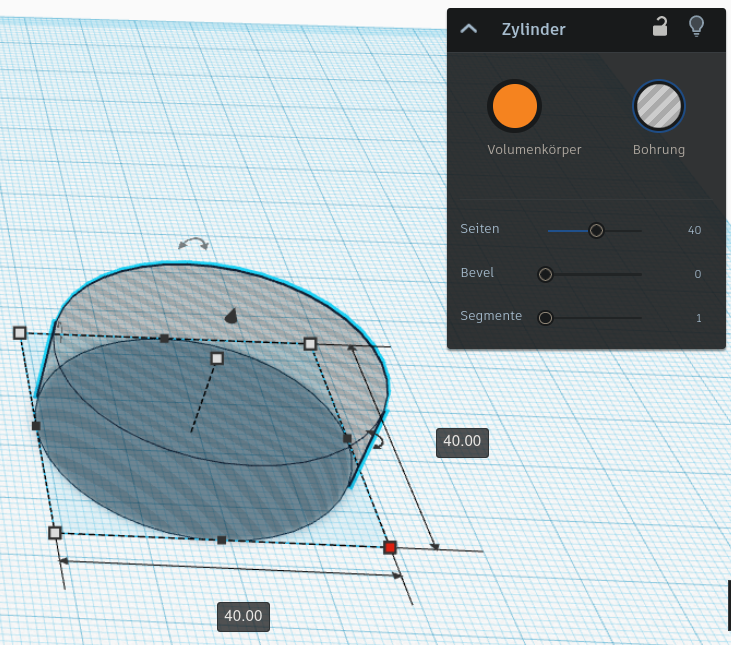
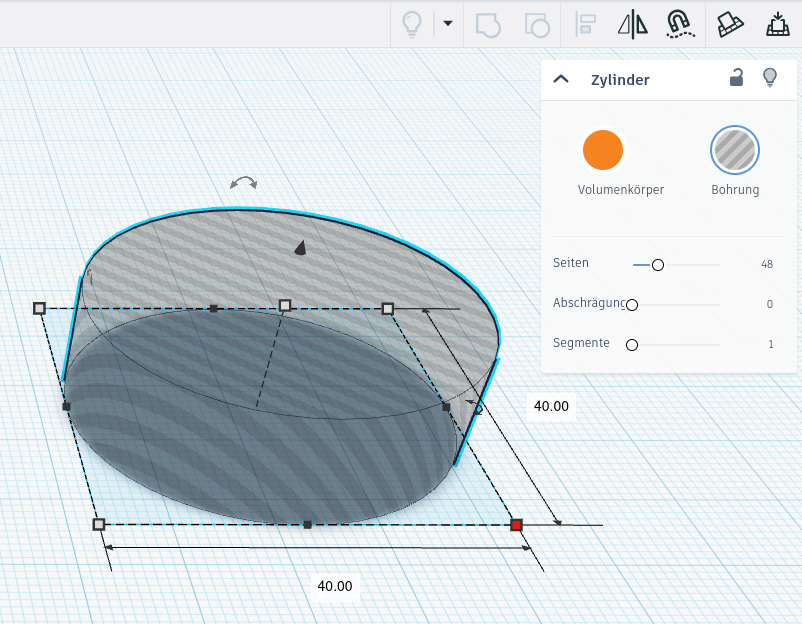
Improve project 01 Teelichthalter
- enable automatic image conversion to webp
- new shortcode for tooltips
- improve project "01 Teelichthalter"

diff --git a/assets/_custom.scss b/assets/_custom.scss
@@ -7,3 +7,50 @@ img {
     margin-left: auto;
     margin-right: auto;
 }
+
+/* Tooltip container */
+.tooltip {
+  position: relative;
+  display: inline-block;
+  border-bottom: 1px dotted black; /* If you want dots under the hoverable text */
+}
+
+/* Tooltip text */
+.tooltip .tooltiptext {
+  visibility: hidden;
+  width: 120px;
+  background-color: #555;
+  color: #fff;
+  text-align: center;
+  padding: 5px 0;
+  border-radius: 6px;
+
+  /* Position the tooltip text */
+  position: absolute;
+  z-index: 1;
+  bottom: 125%;
+  left: 50%;
+  margin-left: -60px;
+
+  /* Fade in tooltip */
+  opacity: 0;
+  transition: opacity 0.3s;
+}
+
+/* Tooltip arrow */
+.tooltip .tooltiptext::after {
+  content: "";
+  position: absolute;
+  top: 100%;
+  left: 50%;
+  margin-left: -5px;
+  border-width: 5px;
+  border-style: solid;
+  border-color: #555 transparent transparent transparent;
+}
+
+/* Show the tooltip text when you mouse over the tooltip container */
+.tooltip:hover .tooltiptext {
+  visibility: visible;
+  opacity: 1;
+}

diff --git a/layouts/_shortcodes/tooltip.html b/layouts/_shortcodes/tooltip.html
@@ -1,0 +1,1 @@
+<span class="tooltip">{{ .Get 0 }}<span class="tooltiptext">{{ .Get 1 }}</span></span>

diff --git a/content/projects/01-tea-light-holder/_index.md b/content/projects/01-tea-light-holder/_index.md
@@ -9,7 +9,7 @@ bookToc: false
 
 Heute wollen wir einen weihnachtlich verzierten Halter für ein batteriebetriebenes Teelicht konstruieren. Die meisten Teelichter haben einen Durchmesser von **39 mm**. Es gibt sie in verschiedenen Höhen zu kaufen.
 
-{{< figure src="tinkercad-tea-light-holder.png" width="50%" alt="" >}}
+![](tinkercad-tea-light-holder.png)
 
 {{% hint danger %}}
 **Achtung:** Verwende den Halter nur unter Aufsicht eines Erwachsenen mit einem echten Teelicht!
@@ -21,30 +21,29 @@ Heute wollen wir einen weihnachtlich verzierten Halter für ein batteriebetriebe
 2. Erstelle einen Zylinder mit einem Durchmesser von **40 mm** und einer Höhe von **12 mm**.
 
 3. Setze seinen Zustand auf **„Bohrung“**. Dieser Zylinder ist die Vertiefung für das Teelicht.
+    ![](tinkercad-cylinder.png)
 
-4. Ändere die Anzahl der Seiten auf **40**, damit der Zylinder nicht so eckig ist.
-    ![](tinkercad-cylinder-annotated.png)
+4. Erstelle nun den äußeren Zylinder des Teelichthalters. Der Durchmesser soll genau **42,52 mm** betragen. Bei diesem Durchmesser bleibt später ein äußerer Rand von 1,26 mm um das Teelicht. Diese Wandstärke entspricht bei den meisten 3D-Druckern genau drei parallelen Linien, so dass der Druck nicht so lange dauert.
 
-5. Erstelle nun den äußeren Zylinder des Teelichthalters. Der Durchmesser soll genau **42,52 mm** betragen. Bei diesem Durchmesser bleibt später ein äußerer Rand von 1,26 mm um das Teelicht. Diese Wandstärke entspricht bei den meisten 3D-Druckern genau drei parallelen Linien, so dass der Druck nicht so lange dauert.
+5. Die Höhe des Zylinders ist **12,8 mm**. Dadurch bekommt der Boden des Halters später eine Dicke von 0,8 mm.
 
-6. Die Höhe des Zylinders ist **12,8 mm**. Dadurch bekommt der Boden des Halters später eine Dicke von 0,8 mm.
+6. Markiere nun die beiden Zylinder, indem du mit der Maus einen Rahmen um beide ziehst.
 
-7. Ändere die Anzahl der Seiten wieder auf **40**.
+7. Klicke oben rechts auf **„Ausrichten“**.
+    ![](images/tinkercad-alignment-annotated.png)
 
-8. Markiere nun die beiden Zylinder, indem du mit der Maus einen Rahmen um beide ziehst.
-
-9. Klicke oben rechts auf **„Ausrichten“**.
-    ![](tinkercad-alignment-annotated.png)
-
-10. Klicke auf die **drei** im nächsten Bild markierten schwarzen Kreise. Dadurch zentrierst du die beiden Zylinder und sorgst dafür, dass ein Boden unter der Bohrung entsteht.
+8. Klicke auf die **drei** im nächsten Bild markierten schwarzen Kreise. Dadurch zentrierst du die beiden Zylinder und sorgst dafür, dass ein Boden unter der Bohrung entsteht.
     ![](tinkercad-alignment-markers-annotated.png)
 
-11. Danach kannst du die beiden Zylinder **gruppieren**. Den Knopf dazu findest du ebenfalls oben rechts. Das Ergebnis sollte wie im folgenden Bild aussehen.
-    {{< figure src="tinkercad-tea-light-holder.png" width="50%" alt="" >}}
+9. Danach kannst du die beiden Zylinder vereinigen, indem du oben rechts auf **„Vereinigungsgruppe“** klickst.
+    ![](images/tinkercad-group-annotated.png)
+
+10. Das Ergebnis sollte wie im folgenden Bild aussehen.
+    ![](tinkercad-tea-light-holder.png)
 
     Damit ist die Grundform des Teelichthalters fertig.
 
-13. Du kannst diesen Teelichthalter nun nach Belieben verzieren.
+11. Du kannst diesen Teelichthalter nun nach Belieben verzieren.
 {{% /steps %}}
 
 ## Mögliche Verzierungen

diff --git a/content/_index.md b/content/_index.md
@@ -1,5 +1,4 @@
 ---
-title: 3D-Druck und Konstruktion
 bookToc: false
 ---
 
@@ -7,7 +6,7 @@ bookToc: false
 
 Du bist technisch interessiert und willst Schülern die Freude am 3D-Druck und der Konstruktion eigener Objekte vermitteln? Dann bist Du hier genau richtig!
 
-Seit 2023 betreue ich ein Ganztagsangebot zum Thema „3D-Druck und Konstruktion“ für Oberschüler und Gymnasiasten der 5. und 6. Klasse.
+Seit 2023 betreue ich ein Ganztagsangebot zum Thema „3D-Druck und Konstruktion“ für Oberschüler und Gymnasiasten der 5. und 6.&nbsp;Klasse.
 
 Die wesentlichen Inhalte des Kurses sind:
 - Bedienung eines 3D-Druckers

diff --git a/archetypes/default.md b/archetypes/default.md
@@ -1,5 +1,3 @@
-+++
-title = '{{ replace .File.ContentBaseName "-" " " | title }}'
-date = {{ .Date }}
-draft = true
-+++
+---
+title: {{ replace .File.ContentBaseName "-" " " | title }}
+---

diff --git a/content/projects/_index.md b/content/projects/_index.md
@@ -1,4 +1,5 @@
 ---
 bookFlatSection: true
-title: Projekte
+title: "GTA: Projekte"
+weight: 4
 ---

diff --git a/content/general/_index.md b/content/general/_index.md
@@ -1,0 +1,5 @@
+---
+bookFlatSection: true
+title: Allgemeines
+weight: 2
+---
